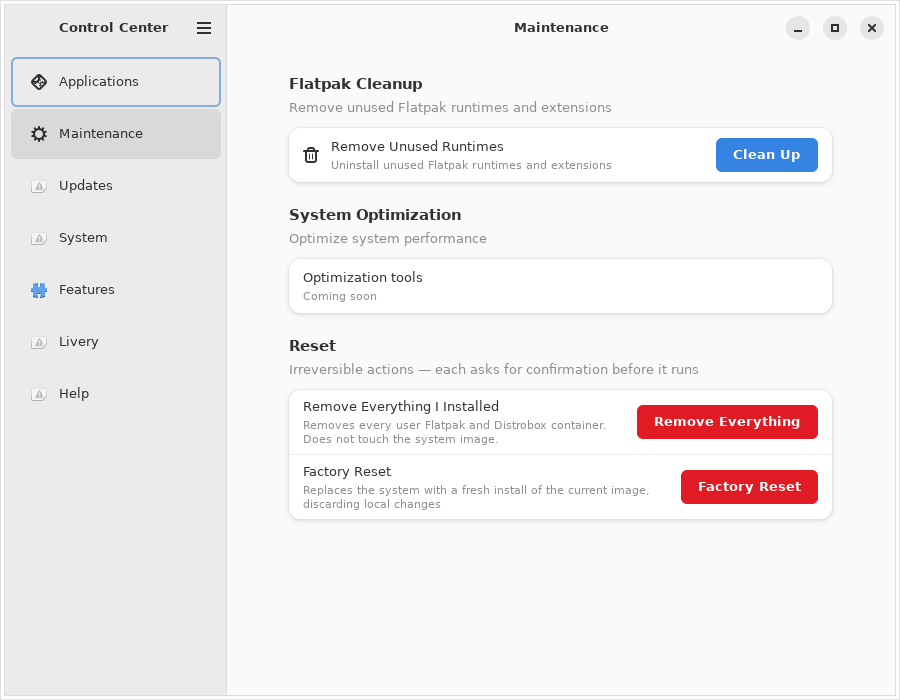
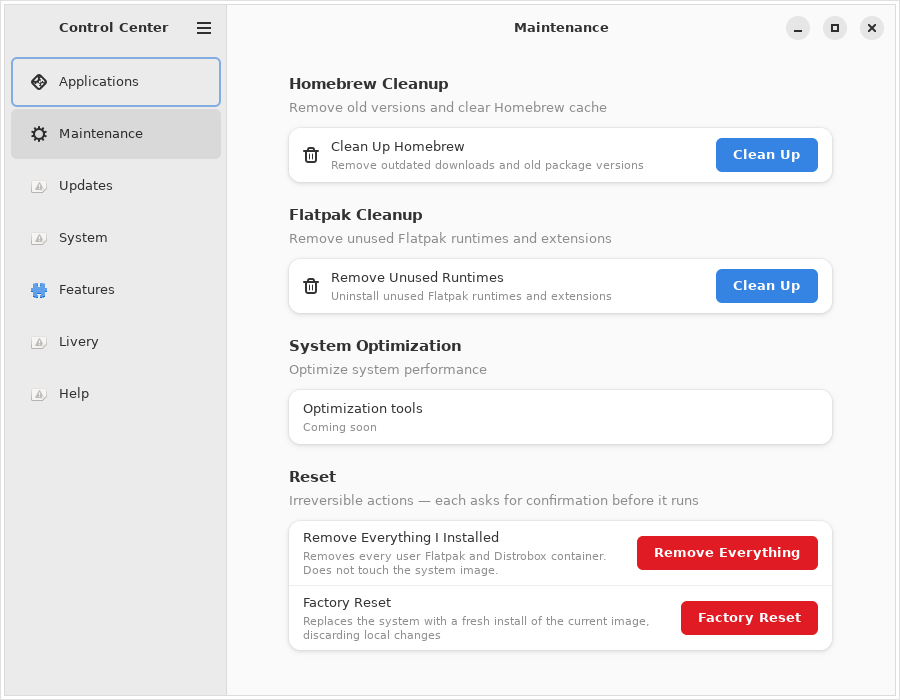
docs: use CI maintenance capture with Reset controls
Replace the local walkthrough PNG with the clean schema-enabled E2E artifact from Tests run 35805793630. The real opt-in Reset rows are visible and no missing-schema toast covers them.

Assisted-by: github-copilot/gpt-6-sol via GitHub Copilot

diff --git a/internal/views/updates_page.go b/internal/views/updates_page.go
@@ -762,6 +762,20 @@ func (uh *UserHome) onBootcStageClicked() {
 				return
 			}
 
+			if statusErr == nil {
+				uh.refreshChangelogAvailability(status)
+			}
+			if statusErr != nil {
+				message := fmt.Sprintf("Could not verify staged update: %v", statusErr)
+				expander.SetSubtitle(message)
+				if dryrun.Enabled() {
+					uh.toastAdder.ShowToast(actionmsg.BootcStage(true, false))
+				} else {
+					uh.toastAdder.ShowErrorToast(message)
+				}
+				return
+			}
+
 			version := ""
 			if staged {
 				version = status.Status.Staged.Version()
@@ -873,6 +887,17 @@ func (uh *UserHome) onSysupdateStageClicked() {
 			if stageErr != nil {
 				expander.SetSubtitle(fmt.Sprintf("Update failed: %v", stageErr))
 				uh.toastAdder.ShowErrorToast(fmt.Sprintf("Update failed: %v", stageErr))
+				return
+			}
+
+			if statusErr != nil {
+				message := fmt.Sprintf("Could not verify staged update: %v", statusErr)
+				expander.SetSubtitle(message)
+				if dryrun.Enabled() {
+					uh.toastAdder.ShowToast(actionmsg.SysupdateStage(true, false))
+				} else {
+					uh.toastAdder.ShowErrorToast(message)
+				}
 				return
 			}
 

diff --git a/internal/views/recovery.go b/internal/views/recovery.go
@@ -224,17 +224,21 @@ func (uh *UserHome) onBootcRollbackClicked() {
 		err := ublue.Rollback(ctx)
 
 		sgtk.RunOnMainThread(func() {
-			uh.bootcRollbackGate.Complete()
-			button.SetSensitive(true)
-
 			if err != nil {
+				uh.bootcRollbackGate.Reset()
+				button.SetSensitive(true)
 				uh.toastAdder.ShowErrorToast(fmt.Sprintf("Rollback failed: %v", err))
 				return
 			}
 
 			decision := actionmsg.Rollback(dryrun.Enabled())
 			if decision.Confirm {
+				uh.bootcRollbackGate.Complete()
+				button.SetSensitive(false)
 				row.SetSubtitle(pageview.BootcRollbackResultSubtitle())
+			} else {
+				uh.bootcRollbackGate.Reset()
+				button.SetSensitive(true)
 			}
 			uh.toastAdder.ShowToast(decision.Toast)
 		})

diff --git a/internal/views/actionstate/wiring_test.go b/internal/views/actionstate/wiring_test.go
@@ -120,7 +120,7 @@ func TestRollbackGateCompletesOnlyAfterLiveSuccess(t *testing.T) {
 	if !ok {
 		t.Fatal("runtime.Caller could not locate wiring_test.go")
 	}
-	data, err := os.ReadFile(filepath.Join(filepath.Dir(filename), "..", "updates_page.go"))
+	data, err := os.ReadFile(filepath.Join(filepath.Dir(filename), "..", "recovery.go"))
 	if err != nil {
 		t.Fatal(err)
 	}
